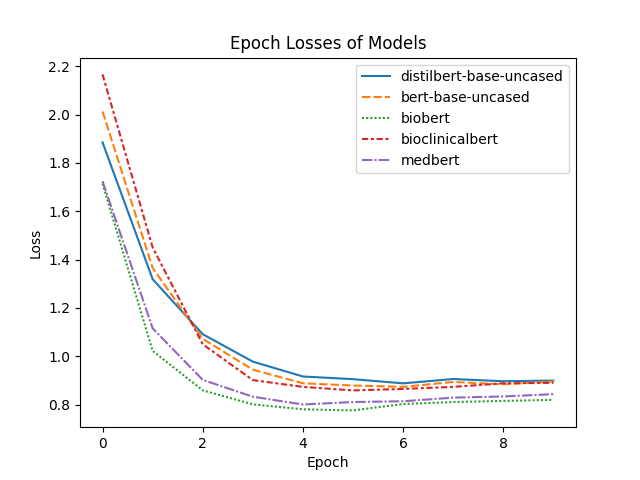
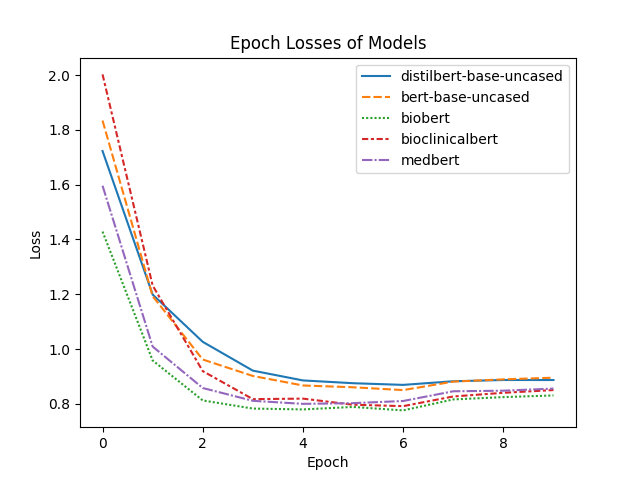
updated model outputs

diff --git a/src/model_visualisation.py b/src/model_visualisation.py
@@ -35,7 +35,7 @@ def compile_model_statistics(dir):
                 else:
                     model_results[metric].append(value)
 
-        with open(os.path.join(dir, f"{m['name']}/{lr}/checkpoint-350/trainer_state.json"), "r+") as f:
+        with open(os.path.join(dir, f"{m['name']}/{lr}/checkpoint-400/trainer_state.json"), "r+") as f:
             epoch_metrics = json.load(f)["log_history"]
 
             # get each model's loss, accuracy, precision, recall

diff --git a/src/model_demo.py b/src/model_demo.py
@@ -43,7 +43,7 @@ def run():
         ents = []
 
         for prediction in out:
-            span = (prediction["start"], prediction["end"], prediction["entity_group"])
+            span = [prediction["start"], prediction["end"], prediction["entity_group"]]
             ent = doc.char_span(span[0], span[1], span[2])
 
             if ent is None:
